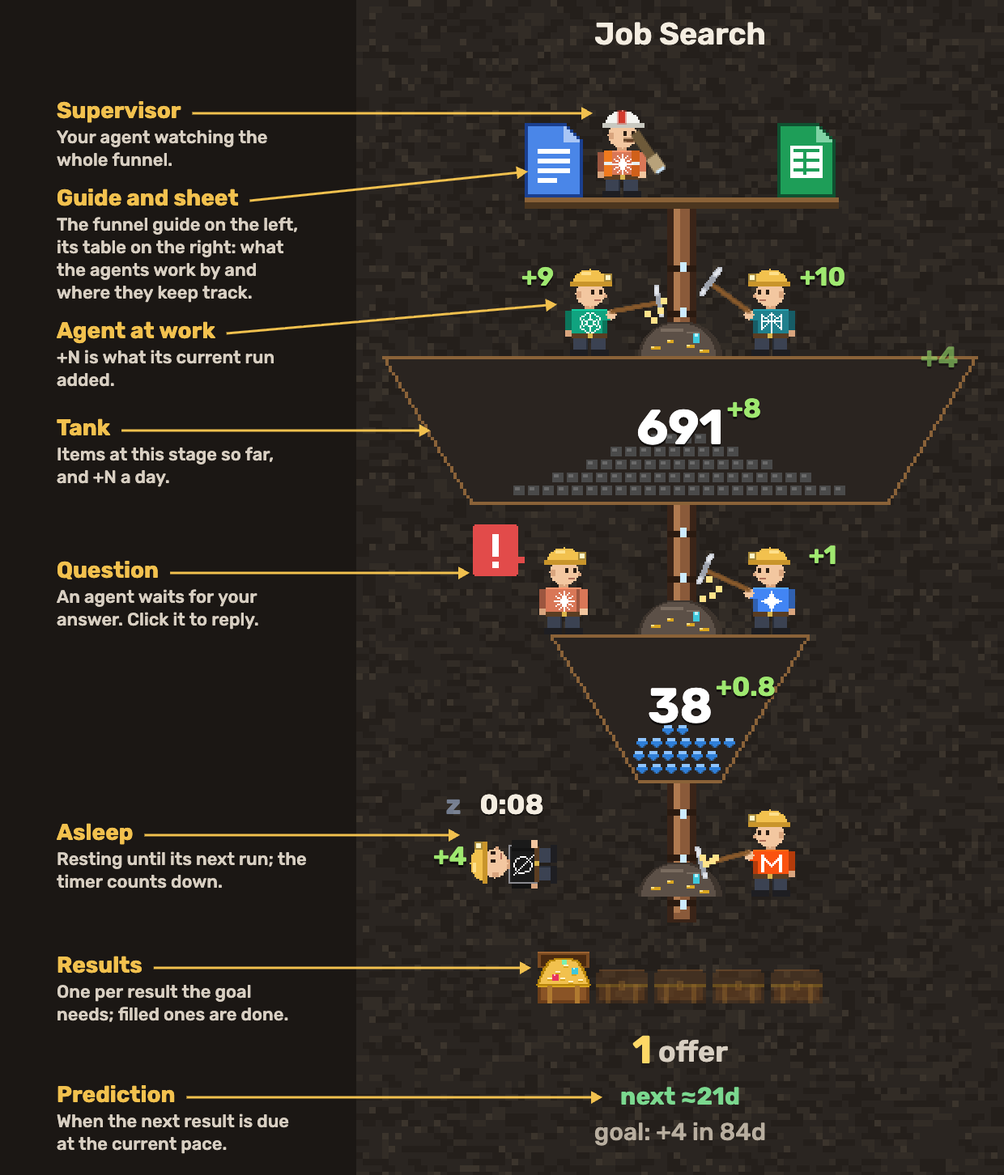
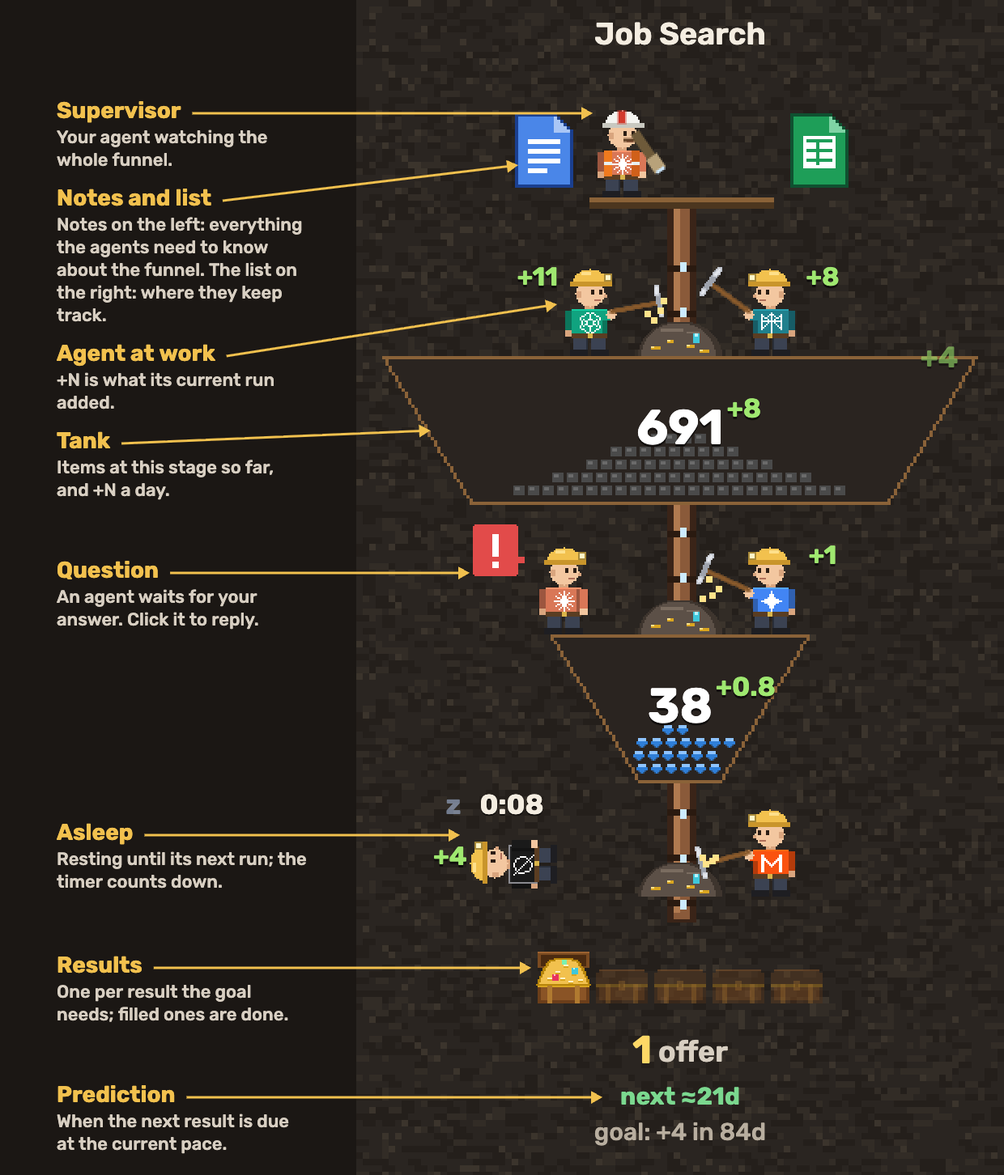
Notes and list hang in the air beside a plank only as wide as the supervisor's walk; their tooltips say Open the notes and Open the list

diff --git a/src/scene.js b/src/scene.js
@@ -1,7 +1,7 @@
-import { agentInfo, plural } from './data.js?v=29a896f6';
-import { drawStanding, drawLying, drawBoss, drawBossLying, drawSpyglass, drawPickaxe, drawShears, drawBeaker, drawBow, drawArrow, drawLaptop, drawStamp, drawHammer, drawSword, drawRollingPin, drawBubble, BUBBLE_STEP, line, P, MINER_H } from './sprites.js?v=29a896f6';
-import { themeOf } from './themes.js?v=29a896f6';
-import { t as tr, lang, fmtDuration, flowUnit } from './i18n.js?v=29a896f6';
+import { agentInfo, plural } from './data.js?v=bf36b5ef';
+import { drawStanding, drawLying, drawBoss, drawBossLying, drawSpyglass, drawPickaxe, drawShears, drawBeaker, drawBow, drawArrow, drawLaptop, drawStamp, drawHammer, drawSword, drawRollingPin, drawBubble, BUBBLE_STEP, line, P, MINER_H } from './sprites.js?v=bf36b5ef';
+import { themeOf } from './themes.js?v=bf36b5ef';
+import { t as tr, lang, fmtDuration, flowUnit } from './i18n.js?v=bf36b5ef';
 
 // Logical (pixel-art) layout of one funnel column. Funnels have 2-5 tanks with a mining zone above
 // each tank and one more below the last (the output zone, where results come out into flasks).
@@ -10,10 +10,10 @@ export const CW = 200;
 const ZW = 164, TOP = 48, ZH = 40, LH = 46, MAX_STAGES = 5;
 // The supervisor's platform: a small deck on top of the pipe; the supervisor walks from one end to
 // the other and looks down from each.
-const DECK_HALF = 48, DECK_Y = TOP - 9;
-// On the platform's ends stand the funnel's guide (left) and its list (right), DOC_W wide each; the
-// supervisor walks between them.
-const DOC_W = 18;
+const DECK_HALF = 28, DECK_Y = TOP - 9;
+// The funnel's notes (left) and its list (right) hang in the air beside the platform's ends, DOC_W
+// wide each, their bottoms a little above its floor.
+const DOC_W = 18, GUIDE_X = -DECK_HALF - 5 - DOC_W, SHEET_X = DECK_HALF + 6, DOC_Y = DECK_Y - 25;
 // The pixel layer is drawn at RES× the logical grid: scenery stays blocky, small pieces get finer pixels.
 const RES = 2;
 const tankTop = j => TOP + ZH + j * (LH + ZH);
@@ -146,7 +146,7 @@ export class Scene {
   cx(fi) { return fi * CW + CW / 2; }
   spot(a, kind) {
     if (a.sup) {
-      const cx = this.cx(this.fi(a.f)), left = cx - DECK_HALF + DOC_W + 2, right = cx + DECK_HALF - DOC_W - 22;
+      const cx = this.cx(this.fi(a.f)), left = cx - DECK_HALF, right = cx + DECK_HALF - 20;
       if (kind === 'rest') return { x: left, y: DECK_Y - 10 * P };
       return { x: kind === 'ask' ? left : left + (right - left) * this.deckWalk(a).k, y: DECK_Y - MINER_H };
     }
@@ -205,8 +205,8 @@ export class Scene {
         if (k < 0) {
           this.pipe(c, cx, DECK_Y + 3, y + 4, theme);
           this.deck(c, fi * CW, theme);
-          if (f.guide_url) this.guideDoc(c, cx - DECK_HALF + 1, DECK_Y - 22);
-          if (f.source_url) this.sheets(c, cx + DECK_HALF - DOC_W + 1, DECK_Y - 22);
+          if (f.guide_url) this.guideDoc(c, cx + GUIDE_X + 1, DOC_Y);
+          if (f.source_url) this.sheets(c, cx + SHEET_X + 1, DOC_Y);
         }
       }
       f.stages.forEach((s, j) => {
@@ -250,7 +250,7 @@ export class Scene {
   }
 
   // A funnel whose agents keep its list behind a link: a spreadsheet file (folded corner, white
-  // table) stands on the right end of the platform. Clicking it opens the list.
+  // table) hangs right of the platform. Clicking it opens the list.
   sheets(c, x, y) {
     const R = (col, ...r) => { c.fillStyle = col; c.fillRect(...r); };
     R('#0F5130', x - 1, y - 1, 13, 23); R('#0F5130', x - 1, y + 4, 18, 18);
@@ -262,11 +262,10 @@ export class Scene {
     R('#1E9E58', x + 7, y + 7, 1, 8);
   }
   sourceHit(fi) {
-    const x = this.cx(fi) + DECK_HALF - DOC_W - 1;
-    return { x, y: DECK_Y - 26, w: DOC_W + 4, h: 30, type: 'source', url: this.funnels[fi].source_url };
+    return { x: this.cx(fi) + SHEET_X - 1, y: DOC_Y - 3, w: DOC_W + 4, h: 28, type: 'source', url: this.funnels[fi].source_url };
   }
   // The funnel's guide, the one document with everything about it for its supervisor and workers: a
-  // text file (folded corner, lines of text) on the left end of the platform. Clicking it opens it.
+  // text file (folded corner, lines of text) left of the platform. Clicking it opens it.
   guideDoc(c, x, y) {
     const R = (col, ...r) => { c.fillStyle = col; c.fillRect(...r); };
     R('#1A3F8F', x - 1, y - 1, 13, 23); R('#1A3F8F', x - 1, y + 4, 18, 18);
@@ -275,8 +274,7 @@ export class Scene {
     for (const [dy, w] of [[7, 10], [10, 10], [13, 10], [16, 6]]) R('#FFFFFF', x + 3, y + dy, w, 1.5);
   }
   guideHit(fi) {
-    const x = this.cx(fi) - DECK_HALF - 1;
-    return { x, y: DECK_Y - 26, w: DOC_W + 4, h: 30, type: 'guide', url: this.funnels[fi].guide_url };
+    return { x: this.cx(fi) + GUIDE_X - 1, y: DOC_Y - 3, w: DOC_W + 4, h: 28, type: 'guide', url: this.funnels[fi].guide_url };
   }
 
   // The pipe in the theme's own material (iron, glass, hose, cable…), with its joints or lights.
@@ -391,7 +389,7 @@ export class Scene {
     for (const a of this.agents) this.drawAgent(c, a);
     if (this.live) this.funnels.forEach((f, fi) => {
       // An empty platform: a click on either side of the pipe, between the documents, tells how to appoint one.
-      if (!f.supervisor) for (const x of [this.cx(fi) - DECK_HALF + DOC_W + 2, this.cx(fi) + 12]) this.hits.push({ x, y: DECK_Y - 22, w: DECK_HALF - DOC_W - 14, h: 28, type: 'nosup', f });
+      if (!f.supervisor) for (const x of [this.cx(fi) - DECK_HALF, this.cx(fi) + 6]) this.hits.push({ x, y: DECK_Y - 22, w: DECK_HALF - 6, h: 28, type: 'nosup', f });
     });
     for (const s of this.sparks) { c.fillStyle = s.col; c.fillRect(s.x, s.y, 2, 2); }
     if (this.dropAt !== null) {

diff --git a/src/i18n.js b/src/i18n.js
@@ -6,12 +6,12 @@
 // Static pages mark text with data-i18n="key" (text), data-i18n-html="key" (text with links) and
 // data-i18n-attr="placeholder:key; title:key"; scripts call t(key, …args).
 
-import es from './lang/es.js?v=29a896f6';
-import vi from './lang/vi.js?v=29a896f6';
-import ja from './lang/ja.js?v=29a896f6';
-import pt from './lang/pt.js?v=29a896f6';
-import tr from './lang/tr.js?v=29a896f6';
-import ko from './lang/ko.js?v=29a896f6';
+import es from './lang/es.js?v=bf36b5ef';
+import vi from './lang/vi.js?v=bf36b5ef';
+import ja from './lang/ja.js?v=bf36b5ef';
+import pt from './lang/pt.js?v=bf36b5ef';
+import tr from './lang/tr.js?v=bf36b5ef';
+import ko from './lang/ko.js?v=bf36b5ef';
 
 export const LANGS = { en: 'English', ru: 'Русский', es: 'Español', pt: 'Português', zh: '中文', ja: '日本語', ko: '한국어', tr: 'Türkçe', th: 'ไทย', vi: 'Tiếng Việt' };
 export const SHORT = { en: 'EN', ru: 'RU', es: 'ES', pt: 'PT', zh: '中文', ja: 'JA', ko: 'KO', tr: 'TR', th: 'ไทย', vi: 'VI' };
@@ -124,8 +124,8 @@ const STRINGS = {
   // The landing page's funnel: what each part is
   'guide.supervisor.h': L('Supervisor', 'Супервайзер', '主管', 'ผู้ดูแล'),
   'guide.supervisor': L('Your agent watching the whole funnel.', 'Ваш агент, следящий за всей воронкой.', '你的智能体，盯着整个漏斗。', 'เอเจนต์ของคุณที่คอยดูทั้งกรวย'),
-  'guide.doc.h': L('Guide and sheet', 'Инструкция и таблица', '说明和表格', 'คู่มือและตาราง'),
-  'guide.doc': L('The funnel guide on the left, its table on the right: what the agents work by and where they keep track.', 'Слева инструкция воронки, справа таблица: по чему работают агенты и где они ведут учёт.', '左边是漏斗说明，右边是表格：智能体按什么工作、在哪里记录。', 'ซ้ายคือคู่มือกรวย ขวาคือตาราง: เอเจนต์ทำงานตามอะไรและบันทึกไว้ที่ไหน'),
+  'guide.doc.h': L('Notes and list', 'Заметки и список', '笔记和清单', 'โน้ตและรายการ'),
+  'guide.doc': L('Notes on the left: everything the agents need to know about the funnel. The list on the right: where they keep track.', 'Слева заметки: всё, что агентам нужно знать о воронке. Справа список: где они ведут учёт.', '左边是笔记：智能体需要知道的关于漏斗的一切。右边是清单：它们在哪里记录。', 'ซ้ายคือโน้ต: ทุกอย่างที่เอเจนต์ต้องรู้เกี่ยวกับกรวย ขวาคือรายการ: ที่ที่พวกมันบันทึก'),
   'guide.sheet.h': L('Sheet', 'Таблица', '表格', 'ตาราง'),
   'guide.sheet': L('The table where the agents keep track of everything.', 'Таблица, где агенты ведут учёт всего.', '智能体记录一切的表格。', 'ตารางที่เอเจนต์ใช้ติดตามทุกอย่าง'),
   'guide.tank.h': L('Tank', 'Бак', '储罐', 'ถัง'),
@@ -341,8 +341,8 @@ const STRINGS = {
   'board.replyIn': L((who) => `Reply in ${who}`, (who) => `Ответить в ${who}`, (who) => `在 ${who} 中回复`, (who) => `ตอบใน ${who}`),
   'board.answer': L('Your answer', 'Ваш ответ', '你的回复', 'คำตอบของคุณ'),
   'board.send': L('Send answer', 'Отправить ответ', '发送回复', 'ส่งคำตอบ'),
-  'board.sheet': L((where) => `Open the list in ${where}`, (where) => `Открыть список в ${where}`, (where) => `在 ${where} 中打开列表`, (where) => `เปิดรายการใน ${where}`),
-  'board.guide': L((where) => `Open the funnel guide in ${where}`, (where) => `Открыть инструкцию воронки в ${where}`, (where) => `在 ${where} 中打开漏斗说明`, (where) => `เปิดคู่มือกรวยใน ${where}`),
+  'board.sheet': L('Open the list', 'Открыть список', '打开清单', 'เปิดรายการ'),
+  'board.guide': L('Open the notes', 'Открыть заметки', '打开笔记', 'เปิดโน้ต'),
   'board.close': L('Close', 'Закрыть', '关闭', 'ปิด'),
   'board.goalReached': L('goal reached ✓', 'цель достигнута ✓', '目标已达成 ✓', 'ถึงเป้าหมายแล้ว ✓'),
   'board.goal': L((total, time) => `goal: +${total} in ${time}`, (total, time) => `цель: +${total} за ${time}`, (total, time) => `目标：${time} 内 +${total}`, (total, time) => `เป้าหมาย: +${total} ใน ${time}`),

diff --git a/index.html b/index.html
@@ -23,7 +23,7 @@
   <link rel="preconnect" href="https://fonts.googleapis.com">
   <link rel="preconnect" href="https://fonts.gstatic.com" crossorigin>
   <link href="https://fonts.googleapis.com/css2?family=Tiny5&family=Rubik:wght@400;500;600;700&family=Noto+Sans+SC:wght@400;500;700&family=Noto+Sans+Thai:wght@400;500;700&family=Be+Vietnam+Pro:wght@400;500;600;700&family=Noto+Sans+JP:wght@400;500;700&family=Noto+Sans+KR:wght@400;500;700&display=swap" rel="stylesheet">
-  <link rel="stylesheet" href="site.css?v=29a896f6">
+  <link rel="stylesheet" href="site.css?v=bf36b5ef">
 </head>
 <body>
   <div class="wrap">
@@ -49,7 +49,7 @@
       <div class="guide">
         <img src="docs/img/funnel-plain.png" alt="One goal funnel of the demo" data-i18n-attr="alt:home.shotAlt" width="800" height="1368">
         <div class="note up" style="--x:0.37;--y:0.096"><b data-i18n="guide.supervisor.h">Supervisor</b><span data-i18n="guide.supervisor">Your agent watching the whole funnel.</span></div>
-        <div class="note" style="--x:0.27;--y:0.146"><b data-i18n="guide.doc.h">Guide and sheet</b><span data-i18n="guide.doc">The funnel guide on the left, its table on the right: what the agents work by and where they keep track.</span></div>
+        <div class="note" style="--x:0.255;--y:0.14"><b data-i18n="guide.doc.h">Notes and list</b><span data-i18n="guide.doc">Notes on the left: everything the agents need to know about the funnel. The list on the right: where they keep track.</span></div>
         <div class="note" style="--x:0.315;--y:0.259"><b data-i18n="guide.work.h">Agent at work</b><span data-i18n="guide.work">+N is what its current run added.</span></div>
         <div class="note" style="--x:0.12;--y:0.366"><b data-i18n="guide.tank.h">Tank</b><span data-i18n="guide.tank">Items at this stage so far, and +N a day.</span></div>
         <div class="note" style="--x:0.18;--y:0.476"><b data-i18n="guide.question.h">Question</b><span data-i18n="guide.question">An agent waits for your answer. Click it to reply.</span></div>
@@ -79,7 +79,7 @@
       <span><a href="https://github.com/oponfil/goalcraft/blob/main/docs/MCP.md" target="_blank" rel="noopener" data-i18n="footer.docs">Docs</a> · <a href="deck/" target="_blank" rel="noopener" data-i18n="footer.deck">Pitch deck</a> · <a href="privacy/" data-i18n="footer.privacy">Privacy</a> · <a href="terms/" data-i18n="footer.terms">Terms</a> · <a href="contact/" data-i18n="footer.contact">Contact</a> · <a class="gh" href="https://github.com/oponfil/goalcraft" target="_blank" rel="noopener" aria-label="GitHub" title="GitHub"><svg viewBox="0 0 16 16" width="16" height="16" aria-hidden="true"><path fill="currentColor" d="M8 0C3.58 0 0 3.58 0 8c0 3.54 2.29 6.53 5.47 7.59.4.07.55-.17.55-.38 0-.19-.01-.82-.01-1.49-2.01.37-2.53-.49-2.69-.94-.09-.23-.48-.94-.82-1.13-.28-.15-.68-.52-.01-.53.63-.01 1.08.58 1.23.82.72 1.21 1.87.87 2.33.66.07-.52.28-.87.51-1.07-1.78-.2-3.64-.89-3.64-3.95 0-.87.31-1.59.82-2.15-.08-.2-.36-1.02.08-2.12 0 0 .67-.21 2.2.82.64-.18 1.32-.27 2-.27.68 0 1.36.09 2 .27 1.53-1.04 2.2-.82 2.2-.82.44 1.1.16 1.92.08 2.12.51.56.82 1.27.82 2.15 0 3.07-1.87 3.75-3.65 3.95.29.25.54.73.54 1.48 0 1.07-.01 1.93-.01 2.2 0 .21.15.46.55.38A8.013 8.013 0 0016 8c0-4.42-3.58-8-8-8z"/></svg></a></span>
     </footer>
   </div>
-  <script type="module" src="src/nav.js?v=29a896f6"></script>
-  <script type="module" src="src/guide-live.js?v=29a896f6"></script>
+  <script type="module" src="src/nav.js?v=bf36b5ef"></script>
+  <script type="module" src="src/guide-live.js?v=bf36b5ef"></script>
 </body>
 </html>

diff --git a/src/dashboard.js b/src/dashboard.js
@@ -1,8 +1,8 @@
 // The dashboard page around the scene: sticky funnel titles, drag to reorder, popups.
 // Shared by the demo (src/main.js) and the person's own funnels (src/live.js).
-import { agentInfo, agentButton, chatLink, plural } from './data.js?v=29a896f6';
-import { Scene, CW, fmtCount, fmtDuration } from './scene.js?v=29a896f6';
-import { t, lang } from './i18n.js?v=29a896f6';
+import { agentInfo, agentButton, chatLink, plural } from './data.js?v=bf36b5ef';
+import { Scene, CW, fmtCount, fmtDuration } from './scene.js?v=bf36b5ef';
+import { t, lang } from './i18n.js?v=bf36b5ef';
 
 const esc = s => String(s ?? '').replace(/[&<>"']/g, c => `&#${c.charCodeAt(0)};`);
 // Web chats open in a new tab; app links (claude://, codex://) hand over to the app without an
@@ -182,8 +182,8 @@ export function mountDashboard(funnels, opts = {}) {
   });
   let tipTimer;
   function showTip(e, h) {
-    if (h.type === 'source') tip.textContent = t('board.sheet', sheetPlace(h.url));
-    else if (h.type === 'guide') tip.textContent = t('board.guide', sheetPlace(h.url));
+    if (h.type === 'source') tip.textContent = t('board.sheet');
+    else if (h.type === 'guide') tip.textContent = t('board.guide');
     else {
       const s = scene.funnels[h.fi].stages[h.j], label = plural(s.count, s.forms);
       tip.textContent = label.charAt(0).toUpperCase() + label.slice(1);
@@ -193,16 +193,6 @@ export function mountDashboard(funnels, opts = {}) {
     tip.style.top = e.clientY + 18 + 'px';
   }
   canvas.addEventListener('pointerleave', () => { tip.hidden = true; });
-  // The service a list link leads to, by its address; any other site by its own name.
-  function sheetPlace(url) {
-    let host;
-    try { host = new URL(url).hostname.replace(/^www\./, ''); } catch { return url; }
-    if (host === 'docs.google.com') return /\/document\//.test(url + '/') ? 'Google Docs' : /\/presentation\//.test(url + '/') ? 'Google Slides' : 'Google Sheets';
-    const known = [['docs.google.com', 'Google Sheets'], ['notion.so', 'Notion'], ['notion.site', 'Notion'], ['airtable.com', 'Airtable'],
-      ['github.com', 'GitHub'], ['gitlab.com', 'GitLab'], ['trello.com', 'Trello'], ['coda.io', 'Coda'], ['clickup.com', 'ClickUp'],
-      ['onedrive.live.com', 'Excel'], ['sharepoint.com', 'Excel'], ['dropbox.com', 'Dropbox']];
-    return known.find(([d]) => host === d || host.endsWith('.' + d))?.[1] ?? host;
-  }
 
   canvas.addEventListener('click', e => {
     const h = scene.hitTest(...toLogical(e));

diff --git a/tools/render-docs.js b/tools/render-docs.js
@@ -1,12 +1,12 @@
 // Renders the README pictures (agents sheet, theme samples, the board) and the link preview card from the same drawing code as
 // the dashboard and saves them through serve.py: open http://localhost:5173/tools/render-docs.html
 // (always in English: the page adds ?lang=en to itself).
-import { AGENTS, FUNNELS } from '../src/data.js?v=29a896f6';
-import { Scene, CW, drawWork, TOOL_PERIOD } from '../src/scene.js?v=29a896f6';
-import { guideScene, guideHeight, drawGuide, TH } from '../src/guide.js?v=29a896f6';
+import { AGENTS, FUNNELS } from '../src/data.js?v=bf36b5ef';
+import { Scene, CW, drawWork, TOOL_PERIOD } from '../src/scene.js?v=bf36b5ef';
+import { guideScene, guideHeight, drawGuide, TH } from '../src/guide.js?v=bf36b5ef';
 import { GIFEncoder, quantize, applyPalette } from 'https://cdn.jsdelivr.net/npm/gifenc@1.0.3/dist/gifenc.esm.js';
-import { THEMES } from '../src/themes.js?v=29a896f6';
-import { drawStanding, drawPickaxe, drawShears, drawBeaker, drawBow, drawArrow, drawLaptop, drawStamp, drawHammer, drawSword, drawRollingPin } from '../src/sprites.js?v=29a896f6';
+import { THEMES } from '../src/themes.js?v=bf36b5ef';
+import { drawStanding, drawPickaxe, drawShears, drawBeaker, drawBow, drawArrow, drawLaptop, drawStamp, drawHammer, drawSword, drawRollingPin } from '../src/sprites.js?v=bf36b5ef';
 
 const FONT = 'Rubik, system-ui, sans-serif';
 
@@ -224,7 +224,7 @@ function funnelGuide({ labels = true, scene = null, show = true } = {}) {
   const sup = scene.spot(scene.agents.find(a => a.sup), 'ask');
   const notes = [
     [P(sup.x + 2, sup.y + 2), 'Supervisor', 'Your agent watching the whole funnel.'],
-    [P(doc0.x + 3, doc0.y + 18), 'Guide and sheet', 'The funnel guide on the left, its table on the right: what the agents work by and where they keep track.'],
+    [P(doc0.x + 3, doc0.y + 18), 'Notes and list', 'Notes on the left: everything the agents need to know about the funnel. The list on the right: where they keep track.'],
     [P(cx - tankMid + 2, s0.y + s0.h / 2), 'Tank', 'Items at this stage so far, and +N a day.'],
     // The bubble bobs; the arrow points where it rests, so the label stays still.
     [P(ask.bubble.x, scene.spot(ask, 'ask').y - 2 + 11), 'Question', 'An agent waits for your answer. Click it to reply.'],

diff --git a/pricing/index.html b/pricing/index.html
@@ -23,7 +23,7 @@
   <link rel="preconnect" href="https://fonts.googleapis.com">
   <link rel="preconnect" href="https://fonts.gstatic.com" crossorigin>
   <link href="https://fonts.googleapis.com/css2?family=Tiny5&family=Rubik:wght@400;500;600;700&family=Noto+Sans+SC:wght@400;500;700&family=Noto+Sans+Thai:wght@400;500;700&family=Be+Vietnam+Pro:wght@400;500;600;700&family=Noto+Sans+JP:wght@400;500;700&family=Noto+Sans+KR:wght@400;500;700&display=swap" rel="stylesheet">
-  <link rel="stylesheet" href="../site.css?v=29a896f6">
+  <link rel="stylesheet" href="../site.css?v=bf36b5ef">
 </head>
 <body>
   <div class="wrap">
@@ -80,7 +80,7 @@
       <span><a href="https://github.com/oponfil/goalcraft/blob/main/docs/MCP.md" target="_blank" rel="noopener" data-i18n="footer.docs">Docs</a> · <a href="../deck/" target="_blank" rel="noopener" data-i18n="footer.deck">Pitch deck</a> · <a href="../privacy/" data-i18n="footer.privacy">Privacy</a> · <a href="../terms/" data-i18n="footer.terms">Terms</a> · <a href="../contact/" data-i18n="footer.contact">Contact</a> · <a class="gh" href="https://github.com/oponfil/goalcraft" target="_blank" rel="noopener" aria-label="GitHub" title="GitHub"><svg viewBox="0 0 16 16" width="16" height="16" aria-hidden="true"><path fill="currentColor" d="M8 0C3.58 0 0 3.58 0 8c0 3.54 2.29 6.53 5.47 7.59.4.07.55-.17.55-.38 0-.19-.01-.82-.01-1.49-2.01.37-2.53-.49-2.69-.94-.09-.23-.48-.94-.82-1.13-.28-.15-.68-.52-.01-.53.63-.01 1.08.58 1.23.82.72 1.21 1.87.87 2.33.66.07-.52.28-.87.51-1.07-1.78-.2-3.64-.89-3.64-3.95 0-.87.31-1.59.82-2.15-.08-.2-.36-1.02.08-2.12 0 0 .67-.21 2.2.82.64-.18 1.32-.27 2-.27.68 0 1.36.09 2 .27 1.53-1.04 2.2-.82 2.2-.82.44 1.1.16 1.92.08 2.12.51.56.82 1.27.82 2.15 0 3.07-1.87 3.75-3.65 3.95.29.25.54.73.54 1.48 0 1.07-.01 1.93-.01 2.2 0 .21.15.46.55.38A8.013 8.013 0 0016 8c0-4.42-3.58-8-8-8z"/></svg></a></span>
     </footer>
   </div>
-  <script type="module" src="../src/nav.js?v=29a896f6"></script>
-  <script type="module" src="../src/pricing.js?v=29a896f6"></script>
+  <script type="module" src="../src/nav.js?v=bf36b5ef"></script>
+  <script type="module" src="../src/pricing.js?v=bf36b5ef"></script>
 </body>
 </html>

diff --git a/contact/index.html b/contact/index.html
@@ -23,7 +23,7 @@
   <link rel="preconnect" href="https://fonts.googleapis.com">
   <link rel="preconnect" href="https://fonts.gstatic.com" crossorigin>
   <link href="https://fonts.googleapis.com/css2?family=Tiny5&family=Rubik:wght@400;500;600;700&family=Noto+Sans+SC:wght@400;500;700&family=Noto+Sans+Thai:wght@400;500;700&family=Be+Vietnam+Pro:wght@400;500;600;700&family=Noto+Sans+JP:wght@400;500;700&family=Noto+Sans+KR:wght@400;500;700&display=swap" rel="stylesheet">
-  <link rel="stylesheet" href="../site.css?v=29a896f6">
+  <link rel="stylesheet" href="../site.css?v=bf36b5ef">
 </head>
 <body>
   <div class="wrap">
@@ -52,6 +52,6 @@
       <span><a href="https://github.com/oponfil/goalcraft/blob/main/docs/MCP.md" target="_blank" rel="noopener" data-i18n="footer.docs">Docs</a> · <a href="../deck/" target="_blank" rel="noopener" data-i18n="footer.deck">Pitch deck</a> · <a href="../privacy/" data-i18n="footer.privacy">Privacy</a> · <a href="../terms/" data-i18n="footer.terms">Terms</a> · <a href="../contact/" data-i18n="footer.contact">Contact</a> · <a class="gh" href="https://github.com/oponfil/goalcraft" target="_blank" rel="noopener" aria-label="GitHub" title="GitHub"><svg viewBox="0 0 16 16" width="16" height="16" aria-hidden="true"><path fill="currentColor" d="M8 0C3.58 0 0 3.58 0 8c0 3.54 2.29 6.53 5.47 7.59.4.07.55-.17.55-.38 0-.19-.01-.82-.01-1.49-2.01.37-2.53-.49-2.69-.94-.09-.23-.48-.94-.82-1.13-.28-.15-.68-.52-.01-.53.63-.01 1.08.58 1.23.82.72 1.21 1.87.87 2.33.66.07-.52.28-.87.51-1.07-1.78-.2-3.64-.89-3.64-3.95 0-.87.31-1.59.82-2.15-.08-.2-.36-1.02.08-2.12 0 0 .67-.21 2.2.82.64-.18 1.32-.27 2-.27.68 0 1.36.09 2 .27 1.53-1.04 2.2-.82 2.2-.82.44 1.1.16 1.92.08 2.12.51.56.82 1.27.82 2.15 0 3.07-1.87 3.75-3.65 3.95.29.25.54.73.54 1.48 0 1.07-.01 1.93-.01 2.2 0 .21.15.46.55.38A8.013 8.013 0 0016 8c0-4.42-3.58-8-8-8z"/></svg></a></span>
     </footer>
   </div>
-  <script type="module" src="../src/nav.js?v=29a896f6"></script>
+  <script type="module" src="../src/nav.js?v=bf36b5ef"></script>
 </body>
 </html>

diff --git a/privacy/index.html b/privacy/index.html
@@ -23,7 +23,7 @@
   <link rel="preconnect" href="https://fonts.googleapis.com">
   <link rel="preconnect" href="https://fonts.gstatic.com" crossorigin>
   <link href="https://fonts.googleapis.com/css2?family=Tiny5&family=Rubik:wght@400;500;600;700&family=Noto+Sans+SC:wght@400;500;700&family=Noto+Sans+Thai:wght@400;500;700&family=Be+Vietnam+Pro:wght@400;500;600;700&family=Noto+Sans+JP:wght@400;500;700&family=Noto+Sans+KR:wght@400;500;700&display=swap" rel="stylesheet">
-  <link rel="stylesheet" href="../site.css?v=29a896f6">
+  <link rel="stylesheet" href="../site.css?v=bf36b5ef">
 </head>
 <body>
   <div class="wrap">
@@ -61,6 +61,6 @@
       <span><a href="https://github.com/oponfil/goalcraft/blob/main/docs/MCP.md" target="_blank" rel="noopener" data-i18n="footer.docs">Docs</a> · <a href="../deck/" target="_blank" rel="noopener" data-i18n="footer.deck">Pitch deck</a> · <a href="../privacy/" data-i18n="footer.privacy">Privacy</a> · <a href="../terms/" data-i18n="footer.terms">Terms</a> · <a href="../contact/" data-i18n="footer.contact">Contact</a> · <a class="gh" href="https://github.com/oponfil/goalcraft" target="_blank" rel="noopener" aria-label="GitHub" title="GitHub"><svg viewBox="0 0 16 16" width="16" height="16" aria-hidden="true"><path fill="currentColor" d="M8 0C3.58 0 0 3.58 0 8c0 3.54 2.29 6.53 5.47 7.59.4.07.55-.17.55-.38 0-.19-.01-.82-.01-1.49-2.01.37-2.53-.49-2.69-.94-.09-.23-.48-.94-.82-1.13-.28-.15-.68-.52-.01-.53.63-.01 1.08.58 1.23.82.72 1.21 1.87.87 2.33.66.07-.52.28-.87.51-1.07-1.78-.2-3.64-.89-3.64-3.95 0-.87.31-1.59.82-2.15-.08-.2-.36-1.02.08-2.12 0 0 .67-.21 2.2.82.64-.18 1.32-.27 2-.27.68 0 1.36.09 2 .27 1.53-1.04 2.2-.82 2.2-.82.44 1.1.16 1.92.08 2.12.51.56.82 1.27.82 2.15 0 3.07-1.87 3.75-3.65 3.95.29.25.54.73.54 1.48 0 1.07-.01 1.93-.01 2.2 0 .21.15.46.55.38A8.013 8.013 0 0016 8c0-4.42-3.58-8-8-8z"/></svg></a></span>
     </footer>
   </div>
-  <script type="module" src="../src/nav.js?v=29a896f6"></script>
+  <script type="module" src="../src/nav.js?v=bf36b5ef"></script>
 </body>
 </html>

diff --git a/terms/index.html b/terms/index.html
@@ -23,7 +23,7 @@
   <link rel="preconnect" href="https://fonts.googleapis.com">
   <link rel="preconnect" href="https://fonts.gstatic.com" crossorigin>
   <link href="https://fonts.googleapis.com/css2?family=Tiny5&family=Rubik:wght@400;500;600;700&family=Noto+Sans+SC:wght@400;500;700&family=Noto+Sans+Thai:wght@400;500;700&family=Be+Vietnam+Pro:wght@400;500;600;700&family=Noto+Sans+JP:wght@400;500;700&family=Noto+Sans+KR:wght@400;500;700&display=swap" rel="stylesheet">
-  <link rel="stylesheet" href="../site.css?v=29a896f6">
+  <link rel="stylesheet" href="../site.css?v=bf36b5ef">
 </head>
 <body>
   <div class="wrap">
@@ -71,6 +71,6 @@
       <span><a href="https://github.com/oponfil/goalcraft/blob/main/docs/MCP.md" target="_blank" rel="noopener" data-i18n="footer.docs">Docs</a> · <a href="../deck/" target="_blank" rel="noopener" data-i18n="footer.deck">Pitch deck</a> · <a href="../privacy/" data-i18n="footer.privacy">Privacy</a> · <a href="../terms/" data-i18n="footer.terms">Terms</a> · <a href="../contact/" data-i18n="footer.contact">Contact</a> · <a class="gh" href="https://github.com/oponfil/goalcraft" target="_blank" rel="noopener" aria-label="GitHub" title="GitHub"><svg viewBox="0 0 16 16" width="16" height="16" aria-hidden="true"><path fill="currentColor" d="M8 0C3.58 0 0 3.58 0 8c0 3.54 2.29 6.53 5.47 7.59.4.07.55-.17.55-.38 0-.19-.01-.82-.01-1.49-2.01.37-2.53-.49-2.69-.94-.09-.23-.48-.94-.82-1.13-.28-.15-.68-.52-.01-.53.63-.01 1.08.58 1.23.82.72 1.21 1.87.87 2.33.66.07-.52.28-.87.51-1.07-1.78-.2-3.64-.89-3.64-3.95 0-.87.31-1.59.82-2.15-.08-.2-.36-1.02.08-2.12 0 0 .67-.21 2.2.82.64-.18 1.32-.27 2-.27.68 0 1.36.09 2 .27 1.53-1.04 2.2-.82 2.2-.82.44 1.1.16 1.92.08 2.12.51.56.82 1.27.82 2.15 0 3.07-1.87 3.75-3.65 3.95.29.25.54.73.54 1.48 0 1.07-.01 1.93-.01 2.2 0 .21.15.46.55.38A8.013 8.013 0 0016 8c0-4.42-3.58-8-8-8z"/></svg></a></span>
     </footer>
   </div>
-  <script type="module" src="../src/nav.js?v=29a896f6"></script>
+  <script type="module" src="../src/nav.js?v=bf36b5ef"></script>
 </body>
 </html>

diff --git a/app/index.html b/app/index.html
@@ -12,7 +12,7 @@
   <link rel="preconnect" href="https://fonts.googleapis.com">
   <link rel="preconnect" href="https://fonts.gstatic.com" crossorigin>
   <link href="https://fonts.googleapis.com/css2?family=Tiny5&family=Rubik:wght@400;500;600;700&family=Noto+Sans+SC:wght@400;500;700&family=Noto+Sans+Thai:wght@400;500;700&family=Be+Vietnam+Pro:wght@400;500;600;700&family=Noto+Sans+JP:wght@400;500;700&family=Noto+Sans+KR:wght@400;500;700&display=swap" rel="stylesheet">
-  <link rel="stylesheet" href="../dashboard.css?v=29a896f6">
+  <link rel="stylesheet" href="../dashboard.css?v=bf36b5ef">
 </head>
 <body>
   <nav class="sitebar">
@@ -40,12 +40,12 @@
   <div id="pop" hidden></div>
 
   <script type="module">
-    import { supabase } from '../src/auth.js?v=29a896f6';
-    import { setUpConnect } from '../src/connect.js?v=29a896f6';
-    import { loadFunnels, answer, sendMessage, watch, runs, closeReplies } from '../src/live.js?v=29a896f6';
-    import { mountDashboard } from '../src/dashboard.js?v=29a896f6';
-    import { account } from '../src/billing.js?v=29a896f6';
-    import { t, fmtDuration, lang } from '../src/i18n.js?v=29a896f6';
+    import { supabase } from '../src/auth.js?v=bf36b5ef';
+    import { setUpConnect } from '../src/connect.js?v=bf36b5ef';
+    import { loadFunnels, answer, sendMessage, watch, runs, closeReplies } from '../src/live.js?v=bf36b5ef';
+    import { mountDashboard } from '../src/dashboard.js?v=bf36b5ef';
+    import { account } from '../src/billing.js?v=bf36b5ef';
+    import { t, fmtDuration, lang } from '../src/i18n.js?v=bf36b5ef';
 
     // Coming back from an email link, supabase-js reads the session from the URL.
     const { data: { session } } = await supabase.auth.getSession();
@@ -125,6 +125,6 @@
       document.addEventListener('focusout', () => { if (pending) refresh(); });
     }
   </script>
-  <script type="module" src="../src/nav.js?v=29a896f6"></script>
+  <script type="module" src="../src/nav.js?v=bf36b5ef"></script>
 </body>
 </html>

diff --git a/login/index.html b/login/index.html
@@ -12,7 +12,7 @@
   <link rel="preconnect" href="https://fonts.googleapis.com">
   <link rel="preconnect" href="https://fonts.gstatic.com" crossorigin>
   <link href="https://fonts.googleapis.com/css2?family=Tiny5&family=Rubik:wght@400;500;600;700&family=Noto+Sans+SC:wght@400;500;700&family=Noto+Sans+Thai:wght@400;500;700&family=Be+Vietnam+Pro:wght@400;500;600;700&family=Noto+Sans+JP:wght@400;500;700&family=Noto+Sans+KR:wght@400;500;700&display=swap" rel="stylesheet">
-  <link rel="stylesheet" href="../site.css?v=29a896f6">
+  <link rel="stylesheet" href="../site.css?v=bf36b5ef">
 </head>
 <body>
   <div class="wrap">
@@ -51,9 +51,9 @@
   </div>
 
   <script type="module">
-    import { supabase, afterSignIn } from '../src/auth.js?v=29a896f6';
-    import { GOOGLE_CLIENT_ID } from '../src/config.js?v=29a896f6';
-    import { t, lang } from '../src/i18n.js?v=29a896f6';
+    import { supabase, afterSignIn } from '../src/auth.js?v=bf36b5ef';
+    import { GOOGLE_CLIENT_ID } from '../src/config.js?v=bf36b5ef';
+    import { t, lang } from '../src/i18n.js?v=bf36b5ef';
 
     const msg = document.getElementById('msg');
     const say = (text, kind = '') => { msg.textContent = text; msg.className = 'msg ' + kind; };
@@ -165,6 +165,6 @@
       else say(t('login.sendFailed'), 'error');
     });
   </script>
-  <script type="module" src="../src/nav.js?v=29a896f6"></script>
+  <script type="module" src="../src/nav.js?v=bf36b5ef"></script>
 </body>
 </html>

diff --git a/oauth/consent/index.html b/oauth/consent/index.html
@@ -13,7 +13,7 @@
   <link rel="preconnect" href="https://fonts.googleapis.com">
   <link rel="preconnect" href="https://fonts.gstatic.com" crossorigin>
   <link href="https://fonts.googleapis.com/css2?family=Tiny5&family=Rubik:wght@400;500;600;700&family=Noto+Sans+SC:wght@400;500;700&family=Noto+Sans+Thai:wght@400;500;700&family=Be+Vietnam+Pro:wght@400;500;600;700&family=Noto+Sans+JP:wght@400;500;700&family=Noto+Sans+KR:wght@400;500;700&display=swap" rel="stylesheet">
-  <link rel="stylesheet" href="../../site.css?v=29a896f6">
+  <link rel="stylesheet" href="../../site.css?v=bf36b5ef">
 </head>
 <body>
   <div class="wrap">
@@ -29,8 +29,8 @@
   <script type="module">
     // OAuth consent: Supabase Auth sends the person here with ?authorization_id= when an agent
     // (Claude, ChatGPT, Cursor…) asks to connect to their Goalcraft.
-    import { supabase, siteUrl } from '../../src/auth.js?v=29a896f6';
-    import { t } from '../../src/i18n.js?v=29a896f6';
+    import { supabase, siteUrl } from '../../src/auth.js?v=bf36b5ef';
+    import { t } from '../../src/i18n.js?v=bf36b5ef';
 
     const card = document.getElementById('card');
     const esc = s => String(s ?? '').replace(/[&<>"']/g, c => `&#${c.charCodeAt(0)};`);
